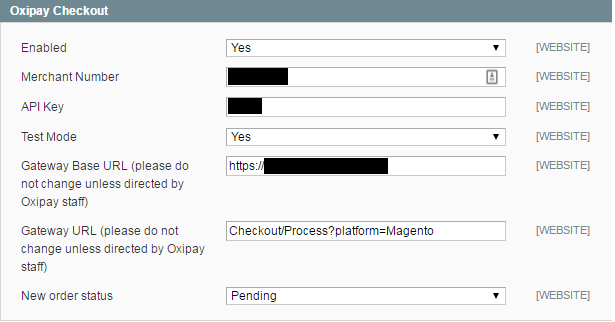
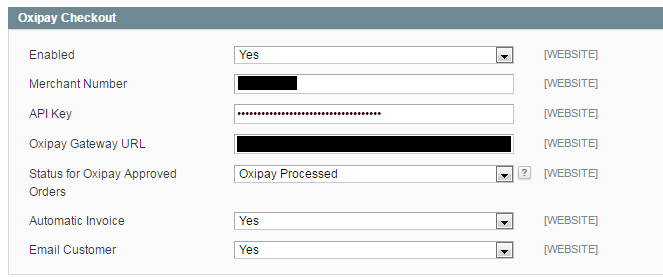
Updated Magento 1 Documentation

diff --git a/docs/platforms/magento_1.md b/docs/platforms/magento_1.md
@@ -1,114 +1,52 @@
 # Setting up Oxipay on a Magento 1 Store
 
-This document outlines the steps needed to integrate the Oxipay Payment Gateway into your Magento store.
+  The plugin was developed and tested against Magento Community Edition version 1.9 and 1.4
 
-<div class="panel panel-primary">
-  <div class="panel-heading">
-    <h3 class="panel-title">Note</h3>
-  </div>
-  <div class="panel-body">
-    At the time of writing this article; Oxipay was developed and tested using Magento Community Edition 1.9. Issues might be encountered if using a different version. If you do encounter issues, please contact us to resolve them as soon as possible.
-  </div>
-</div>
-<br/>
-
-## Installing the Plugin
-
-<div class="panel panel-primary">
-  <div class="panel-heading">
-    <h3 class="panel-title">Note</h3>
-  </div>
-  <div class="panel-body">
-    You will need your <b>Merchant ID</b> and a corresponding <b>Encryption Key</b> before continuing with the installation. If you don't have either of these bits of information; please contact <a href="mailto:support@oxipay.com.au?Subject=Merchant ID">support@oxipay.com.au</a>.
-  </div>
+<div class="panel">
+  You will need your Merchant ID and API Key before continuing with the installation. If you haven't received both yet, contact us at <a href="mailto:support@oxipay.com.au?Subject=Merchant ID">support@oxipay.com.au</a>.
 </div>
 
-<div class="panel panel-danger">
-  <div class="panel-heading">
-    <h3 class="panel-title">Important</h3>
-  </div>
-  <div class="panel-body">
-    Performing the steps below requires some knowledge of the Magento platform. We recommend that these steps be performed by an IT professional or a web developer.<br/><br/>
-    Before proceeding with the rest of the installation; ensure that you have a back of your Magento store. To create a backup, navigate to System -> Tools -> Backup. This is useful in the event you encounter issues with installing Oxipay.
-  </div>
-</div>
+## Installation
 
-1 - You can install the Oxipay plugin manually by copying the [oxipay-magento-1.x](https://github.com/oxipay/oxipay-magento-1.x) source code into the <code>/app</code> folder under the Magento root directory. A zip file containing the Oxipay plugin can be found at the following location:<br/>
-[https://github.com/oxipay/oxipay-magento-1.x/releases](https://github.com/oxipay/oxipay-magento-1.x/releases)
+1 - To create a backup of your store, you can do so by navigating to **System** -> **Tools** -> **Backup**.
 
-<div class="panel panel-primary">
-  <div class="panel-heading">
-    <h3 class="panel-title">Note</h3>
-  </div>
-  <div class="panel-body">
-    oxipay-magento-1.x is a private GitHub repository. If you don't have access, please contact <a href="mailto:support@oxipay.com.au?Subject=Merchant ID">support@oxipay.com.au</a> to get access or to receive the plugin via email.
-  </div>
-</div>
+2 - Download the plugin from [github.com/oxipay/oxipay-magento-1.x/releases](https://github.com/oxipay/oxipay-magento-1.x/releases).
 
-2 - Copy the unzipped files to the <code>/app</code> folder under the Magento root directory.
+3 - Unzip the downloaded plugin, then copy the following files and folders into the corresponding folder on the `app` folder on the Magento root directory.
 
-3 - Login into the Magento **Admin Panel**. then click on **System** > **Cache Management**.
+- /app/code/community/Oxipay<br>  
+- /app/design/frontend/base/default/template 
+- /app/etc/modules/Oxipay_Oxipayments.xml
 
-![1.png](/img/platforms/magento_1/1.png)
+5 - Login into Magento's **Admin Panel**, click on **System** then select **Cache Management**.
 
-![2.png](/img/platforms/magento_1/2.png)
-
-4 - From within the **Cache Management** page; click on the **Flush Magento Cache** button.
+4 - On the **Cache Management** page, click on **Flush Magento Cache**.
 
 ![3.png](/img/platforms/magento_1/3.png)
 
-5 - Confirm that Oxipay has been installed on your Magento Store. To do this, click on **System** > **Configuration**.
+5 - Confirm the plugin has been installed by navigating to **System** > **Configuration**.
 
-![4.png](/img/platforms/magento_1/4.png)
-
-6 - This will open up the **Configuration** page, scroll to the bottom and then click on **Payment Methods** on the left side menu.
+6 - On **Configuration** page, scroll downwards then click on **Payment Methods** on left side menu.
 
 ![5.png](/img/platforms/magento_1/5.png)
 
-7 - Confirm that Oxipay Checkout is visible as a Payment Method and once expanded it looks similar to the image below.
+7 - Confirm  **Oxipay Checkout** is visible and once expanded looks similar to the image below.
+
 
 ![6.png](/img/platforms/magento_1/6.png)
 
-<div class="panel panel-primary">
-  <div class="panel-heading">
-    <h3 class="panel-title">Note</h3>
-  </div>
-  <div class="panel-body">
-    The <b>Merchant Key</b> and <b>API Key</b> have been blacked out in the image above.
-  </div>
-</div>
-<br/>
-
-##Updates to Oxipay##
-
-Updates to the Oxipay plugin might be made in the future. To update the Oxipay plugin, we recommend that you first uninstall the existing Oxipay plugin before installing a newer version.
-
-<div class="panel panel-primary">
-  <div class="panel-heading">
-    <h3 class="panel-title">Note</h3>
-  </div>
-  <div class="panel-body">
-    Deleting the existing plugin ensures that any files from the previous version don't cause any issues with the newer version.
-  </div>
+<div class="panel">
+  The <b>Merchant Key</b> and <b>API Key</b> have been blacked out in the image.
 </div>
 
-1 - Open the <code>app</code> folder under the Magento root folder. Delete the files and folder paths listed below:
+##Upgrading the Plugin##
 
-<b>Folders</b>:
+1 - Download newer release and perform installation outlined above by overriding existing Oxipay files in your Magento directory with the same files from the newer plugin release.
 
-* <code>app\code\community\Oxipay</code>
-* <code>app\design\frontend\base\default\template\oxipayments</code>
+<div class="panel">
+  Existing Oxipay settings such as the <b>Merchant Number</b> for instance will be retained after you have performed the upgrade.
+</div>
 
-<b>Files</b>:
+2 - Login into Magento's **Admin Panel**, click on **System** then select **Cache Management**.
 
-* <code>app\etc\modules\Oxipay_Oxipayments.xml</code>
-
-2 - Login to **Magento Admin** and then navigate to **System** > **Cache Management**.
-
-![2.png](/img/platforms/magento_1/2.png)
-
-3 - On the top right, click on Flush Cache Storage to clear Magento's cache.
-
-![3.png](/img/platforms/magento_1/3.png)
-
-4 - Now you can proceed with installing the new version of the Oxipay plugin by following the [Installing the Plugin](#installing-the-plugin) section.
+3 - Click on **Flush Cache Storage** on the top right.
